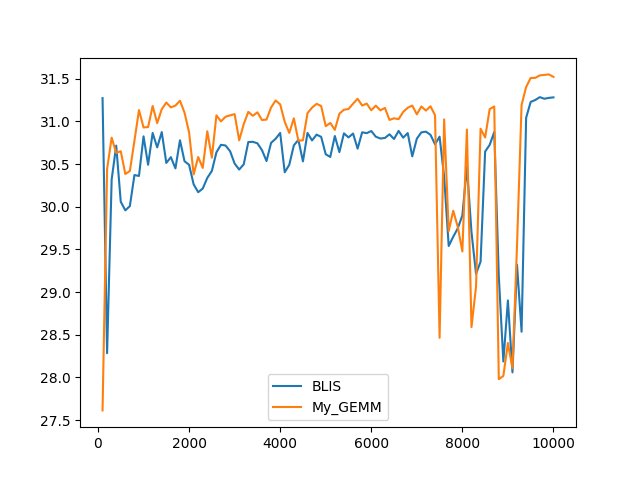
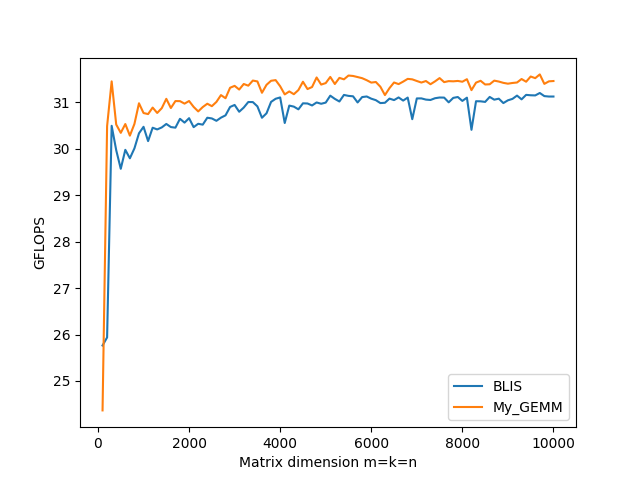
Add new performance graphs to README

diff --git a/src/main.cpp b/src/main.cpp
@@ -7,7 +7,7 @@
 #include "../include/gemm.h"
 
 constexpr int begin_size = 100,
-              end_size = 1000,
+              end_size = 10000,
               step = 100,
               number_of_tests = 10;
 
@@ -15,10 +15,13 @@ int main() {
     double one = 1.0;
     double maxDiff = 0.0;
 
-    std::ofstream out_blis("blis.csv"), out_jpi_ji_packed("jpi_ji_packed.csv"), out_jpi_ji_packed_mt("jpi_ji_packed_mt.csv");
+    std::ofstream out_blis("blis_mt.csv"), out_jpi_ji_packed("jpi_ji_packed.csv"), out_jpi_ji_packed_mt("jpi_ji_packed_mt.csv");
     out_blis << "N,GFLOPS\n";
     out_jpi_ji_packed << "N,GFLOPS\n";
     out_jpi_ji_packed_mt << "N,GFLOPS,GFLOPS per thread\n";
+    // out_blis << "N,GFLOPS,GFLOPS per thread\n";
+
+    // bli_thread_set_ways(2, 1, 6, 1, 1);
 
     for (int size = begin_size; size <= end_size; size += step) {
         auto a = new double[size * size];
@@ -40,7 +43,6 @@ int main() {
             auto begin = std::chrono::steady_clock::now();
             bli_dgemm(BLIS_NO_TRANSPOSE, BLIS_NO_TRANSPOSE, size, size, size, &one, a, 1, size, 
                       b, 1, size, &one, c_ref, 1, size);
-
             auto end = std::chrono::steady_clock::now();
 
             if (!test) {
@@ -72,7 +74,7 @@ int main() {
         //                              std::chrono::duration_cast<std::chrono::nanoseconds>(end - begin));
         //     }
         // }
-        // std::cout << "IJP_LOOP Size:              " << size << "x" << size << "\tTime: " << best_time.count() * 1e-09
+        // std::cout << "JPI_LOOP Size:              " << size << "x" << size << "\tTime: " << best_time.count() * 1e-09
         //           << " sec. \t GFLOPS:            " << gflops / (best_time.count() * 1e-09) << std::endl;
 
         // for (int test = 0; test < number_of_tests; ++test) {
@@ -94,33 +96,11 @@ int main() {
         // std::cout << "JPI_JI_LOOP Size:       " << size << "x" << size << "\tTime: " << best_time.count() * 1e-09
         //           << " sec. \t GFLOPS:            " << gflops / (best_time.count() * 1e-09) << std::endl;
 
-        // for (int test = 0; test < number_of_tests; ++test) {
-        //     mempcpy(c, c_old, size * size * sizeof(double));
-            
-        //     auto begin = std::chrono::steady_clock::now();
-        //     JPI_JI_Loop_Packed(size, size, size, a, size, b, size, c, size);
-        //     auto end = std::chrono::steady_clock::now();
-
-        //     if (!test) {
-        //         best_time = std::chrono::duration_cast<std::chrono::nanoseconds>(end - begin);
-        //     }
-        //     else {
-        //         best_time = std::min(best_time, 
-        //                              std::chrono::duration_cast<std::chrono::nanoseconds>(end - begin));
-        //     }
-        //  }
-
-        // std::cout << "JPI_JI_LOOP_P Size:         " << size << "x" << size << "\tTime: " << best_time.count() * 1e-09
-        //           << " sec. \t GFLOPS:            " << gflops / (best_time.count() * 1e-09) << std::endl;
-
-
-        // out_jpi_ji_packed << size << ',' << gflops / (best_time.count() * 1e-09) << '\n';
-
         for (int test = 0; test < number_of_tests; ++test) {
             mempcpy(c, c_old, size * size * sizeof(double));
             
             auto begin = std::chrono::steady_clock::now();
-            JPI_JI_Loop_Packed_MT(size, size, size, a, size, b, size, c, size);
+            JPI_JI_Loop_Packed(size, size, size, a, size, b, size, c, size);
             auto end = std::chrono::steady_clock::now();
 
             if (!test) {
@@ -130,13 +110,35 @@ int main() {
                 best_time = std::min(best_time, 
                                      std::chrono::duration_cast<std::chrono::nanoseconds>(end - begin));
             }
-        }
+         }
 
         std::cout << "JPI_JI_LOOP_P Size:         " << size << "x" << size << "\tTime: " << best_time.count() * 1e-09
-                  << " sec. \t GFLOPS:            " << gflops / (best_time.count() * 1e-09) 
-                  << "\t GFLOPS per thread: " << (gflops / (best_time.count() * 1e-09)) / omp_get_max_threads() << std::endl;
+                  << " sec. \t GFLOPS:            " << gflops / (best_time.count() * 1e-09) << std::endl;
 
-        out_jpi_ji_packed_mt << size << ',' << gflops / (best_time.count() * 1e-09) << ',' << (gflops / (best_time.count() * 1e-09)) / omp_get_max_threads() << '\n';
+
+        out_jpi_ji_packed << size << ',' << gflops / (best_time.count() * 1e-09) << '\n';
+
+        // for (int test = 0; test < number_of_tests; ++test) {
+        //     mempcpy(c, c_old, size * size * sizeof(double));
+            
+        //     auto begin = std::chrono::steady_clock::now();
+        //     JPI_JI_Loop_Packed_MT(size, size, size, a, size, b, size, c, size);
+        //     auto end = std::chrono::steady_clock::now();
+
+        //     if (!test) {
+        //         best_time = std::chrono::duration_cast<std::chrono::nanoseconds>(end - begin);
+        //     }
+        //     else {
+        //         best_time = std::min(best_time, 
+        //                              std::chrono::duration_cast<std::chrono::nanoseconds>(end - begin));
+        //     }
+        // }
+
+        // std::cout << "JPI_JI_LOOP_P Size:         " << size << "x" << size << "\tTime: " << best_time.count() * 1e-09
+        //           << " sec. \t GFLOPS:            " << gflops / (best_time.count() * 1e-09) 
+        //           << "\t GFLOPS per thread: " << (gflops / (best_time.count() * 1e-09)) / omp_get_max_threads() << std::endl;
+
+        // out_jpi_ji_packed_mt << size << ',' << gflops / (best_time.count() * 1e-09) << ',' << (gflops / (best_time.count() * 1e-09)) / omp_get_max_threads() << '\n';
         
         std::cout << std::endl;
 

diff --git a/src/gemm.cpp b/src/gemm.cpp
@@ -304,8 +304,8 @@ void JPI_JI_Loop_Packed_MT(int m, int n, int k, double* a, int ldA, double* b, i
 }
 //*****************************************************************************************************************
 
-// //*****************************************************************************************************************
-// // MT loop3
+//*****************************************************************************************************************
+// MT loop3
 
 // void Loop2 (int m, int n, int k, double* atilde, double* btilde, double* c, int ldC) {
 //     for (int j = 0; j < n; j += NR) {
@@ -354,10 +354,30 @@ void JPI_JI_Loop_Packed_MT(int m, int n, int k, double* a, int ldA, double* b, i
 //     delete[] atilde;
 //     delete[] btilde;
 // }
-// //*****************************************************************************************************************
+//*****************************************************************************************************************
 
 //*****************************************************************************************************************
 // MT loop 5
+
+// void Loop4(int m, int n, int k, double* a, int ldA, double* b, int ldB, double* c, int ldC, double* atilde, double* btilde) {
+//     for (int P = 0; P < k; P += KC) {
+//             packB(std::min(KC, k - P), n, b + P, ldB, btilde + NC * KC * omp_get_thread_num());
+
+//             for (int I = 0; I < m; I += MC) {
+//                 packA(std::min(MC, m - I), std::min(KC, k - P), a + P * ldA + I, ldA, atilde + MC * KC * omp_get_thread_num());
+
+//                 for (int j = 0; j < n; j += NR) {
+//                     for (int i = 0; i < std::min(MC, m - I); i += MR) {
+//                         double *A = atilde + MC * KC * omp_get_thread_num() + i * std::min(KC, k - P);
+//                         double *B = btilde + NC * KC * omp_get_thread_num() + j * std::min(KC, k - P);
+//                         double *C = c + I + j * ldC + i;
+
+//                         kernel_packed(std::min(KC, k - P), A, B, C, ldC);
+//                     }
+//                 }
+//             }
+//         }
+// }
 
 // void JPI_JI_Loop_Packed_MT(int m, int n, int k, double* a, int ldA, double* b, int ldB, double* c, int ldC) {
 //     auto *atilde = new double[MC * KC * omp_get_max_threads()];
@@ -374,44 +394,12 @@ void JPI_JI_Loop_Packed_MT(int m, int n, int k, double* a, int ldA, double* b, i
 
 //     #pragma omp parallel for
 //     for (int J = 0; J < whole_part; J += NC_per_thread) {
-//         for (int P = 0; P < k; P += KC) {
-//             packB(std::min(KC, k - P), std::min(NC_per_thread, n - J), b + J * ldB + P, ldB, btilde + NC * KC * omp_get_thread_num());
-
-//             for (int I = 0; I < m; I += MC) {
-//                 packA(std::min(MC, m - I), std::min(KC, k - P), a + P * ldA + I, ldA, atilde + MC * KC * omp_get_thread_num());
-
-//                 for (int j = 0; j < std::min(NC_per_thread, n - J); j += NR) {
-//                     for (int i = 0; i < std::min(MC, m - I); i += MR) {
-//                         double *A = atilde + MC * KC * omp_get_thread_num() + i * std::min(KC, k - P);
-//                         double *B = btilde + NC * KC * omp_get_thread_num() + j * std::min(KC, k - P);
-//                         double *C = c + J * ldC + I + j * ldC + i;
-
-//                         kernel_packed(std::min(KC, k - P), A, B, C, ldC);
-//                     }
-//                 }
-//             }
-//         }
+//         Loop4(m, std::min(NC_per_thread, n - J), k, a, ldA, b + J * ldB, ldB, c + J * ldC, ldC, atilde, btilde);
 //     }
 
 //     #pragma omp parallel for
 //     for (int J = whole_part; J < n; J += remainder_per_thread) {
-//         for (int P = 0; P < k; P += KC) {
-//             packB(std::min(KC, k - P), std::min(remainder_per_thread, n - J), b + J * ldB + P, ldB, btilde + NC * KC * omp_get_thread_num());
-
-//             for (int I = 0; I < m; I += MC) {
-//                 packA(std::min(MC, m - I), std::min(KC, k - P), a + P * ldA + I, ldA, atilde + MC * KC * omp_get_thread_num());
-
-//                 for (int j = 0; j < std::min(remainder_per_thread, n - J); j += NR) {
-//                     for (int i = 0; i < std::min(MC, m - I); i += MR) {
-//                         double *A = atilde + MC * KC * omp_get_thread_num() + i * std::min(KC, k - P);
-//                         double *B = btilde + NC * KC * omp_get_thread_num() + j * std::min(KC, k - P);
-//                         double *C = c + J * ldC + I + j * ldC + i;
-
-//                         kernel_packed(std::min(KC, k - P), A, B, C, ldC);
-//                     }
-//                 }
-//             }
-//         }
+//         Loop4(m, std::min(remainder_per_thread, n - J), k, a, ldA, b + J * ldB, ldB, c + J * ldC, ldC, atilde, btilde);
 //     }
 
 //     delete[] atilde;

diff --git a/make_graph.py b/make_graph.py
@@ -9,13 +9,36 @@ def get_data(file_name, delimiter):
         reader.__next__()
         for row in reader:
             x.append(int(row[0]))
-            y.append(float(row[1]))
+            # y.append(float(row[1]))
+            y.append(float(row[2]))
         
         return x, y
 
 
 pyplot.plot(*get_data("build/blis.csv", ','), label='BLIS')
 pyplot.plot(*get_data("build/jpi_ji_packed.csv", ','), label='My_GEMM')
+pyplot.ylabel("GFLOPS")
+pyplot.xlabel("Matrix dimension m=k=n")
 pyplot.legend()
 pyplot.savefig("img/graph.png")
 pyplot.show()
+
+# pyplot.plot(*get_data("build/blis_mt.csv", ','), label='BLIS_MT')
+# pyplot.plot(*get_data("build/jpi_ji_packed_mt2.csv", ','), label='Loop 2')
+# pyplot.plot(*get_data("build/jpi_ji_packed_mt3.csv", ','), label='Loop 3')
+# pyplot.plot(*get_data("build/jpi_ji_packed_mt5.csv", ','), label='Loop 5')
+# pyplot.ylabel("GFLOPS")
+# pyplot.xlabel("Matrix dimension m=k=n")
+# pyplot.legend()
+# pyplot.savefig("img/graph_mt.png")
+# pyplot.show()
+
+# pyplot.plot(*get_data("build/blis_mt.csv", ','), label='BLIS_MT')
+# pyplot.plot(*get_data("build/jpi_ji_packed_mt2.csv", ','), label='Loop 2')
+# pyplot.plot(*get_data("build/jpi_ji_packed_mt3.csv", ','), label='Loop 3')
+# pyplot.plot(*get_data("build/jpi_ji_packed_mt5.csv", ','), label='Loop 5')
+# pyplot.ylabel("GFLOPS/thread")
+# pyplot.xlabel("Matrix dimension m=k=n")
+# pyplot.legend()
+# pyplot.savefig("img/graph_mt_per_thread.png")
+# pyplot.show()

diff --git a/README.md b/README.md
@@ -1,3 +1,13 @@
 # My Gemm
 
-![Performance graph](img/graph.png "Performance graph").
+| ![Single thread performance](img/graph.png "Single thread performance") |
+|:--:|
+| Fig. 1 - Single thread performance |
+
+| ![Multithreaded performance](img/graph_mt.png "Multithreaded performance") |
+|:--:|
+| Fig. 2 - Multithreaded performance |
+
+| ![Performance per thread](img/graph_mt_per_thread.png "Performance per thread") |
+|:--:|
+| Fig. 3 - Performance per thread |
